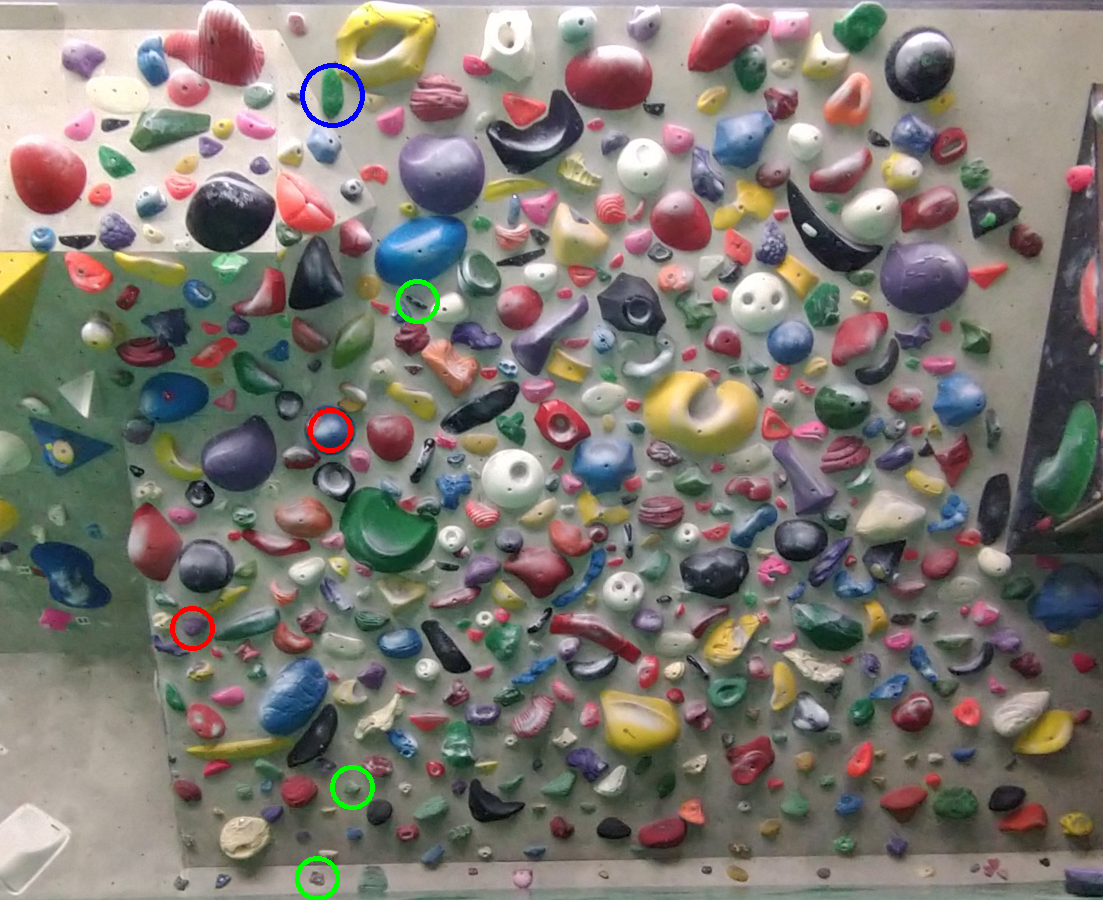
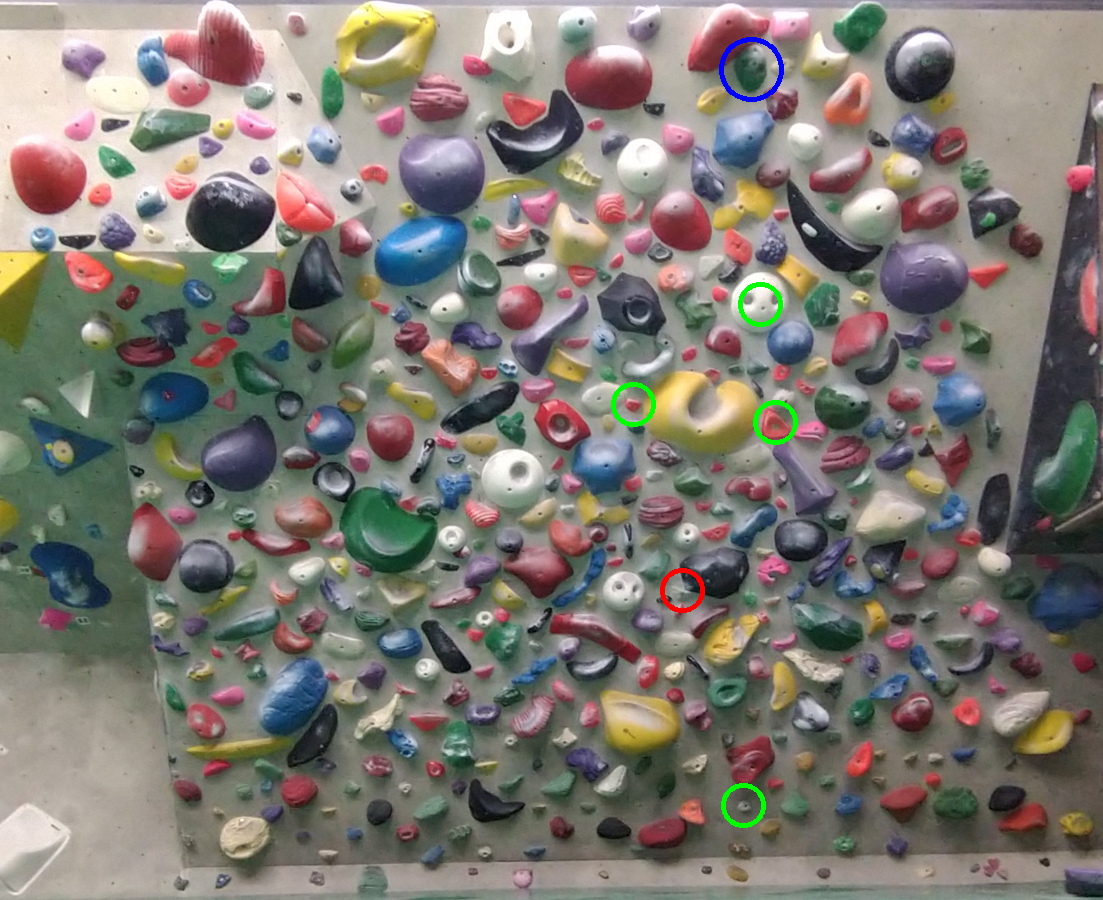
input

diff --git a/app/templates/app/avue.html b/app/templates/app/avue.html
@@ -19,10 +19,18 @@
         <p>
             <img src="{% static 'media/avue/output.png' %}">
         </p>
-        <p><font size="5">
+
+        <form action="{% url 'avue' %}" method="post">
+            {% csrf_token %}
+            {{forms}}
+            <input type='submit' value="Remake">
+        </form>
+        
+        {% comment %} <p><font size="5"> {% endcomment %}
             {% comment %} <a href="http://127.0.0.1:8000/avue">Remake</a> {% endcomment %}
-            <a href="https://avue-project-maker.onrender.com/avue">Remake</a>
-        </font></p>
+            {% comment %} <a href="https://avue-project-maker.onrender.com/avue">Remake</a> {% endcomment %}
+        {% comment %} </font></p> {% endcomment %}
+
         <p style="text-align: right">
             <a href="https://avue-project-maker.onrender.com">トップページに戻る</a>
         </font></p>

diff --git a/app/templates/app/top.html b/app/templates/app/top.html
@@ -14,8 +14,8 @@
     <p>※当サイトは利用客である投稿主が個人的に製作したものであり、avue様の運営とは一切関係がありません。</p>
     <br>
     <p><font size="5">
-      {% comment %} <a href="http://127.0.0.1:8000/avue">avue spray wall</a> {% endcomment %}
-      <a href="https://avue-project-maker.onrender.com/avue">avue spray wall</a>
+      <a href="http://127.0.0.1:8000/avue">avue spray wall</a>
+      {% comment %} <a href="https://avue-project-maker.onrender.com/avue">avue spray wall</a> {% endcomment %}
     </font></p>
     <br>
     <p><font size="5">

diff --git a/app/function.py b/app/function.py
@@ -33,12 +33,14 @@ def start_foot_list(border,input_list,name):
 
 
 #ルートセット
-def route_set(input_sf,input_list,name):
+def route_set(input_sf,input_list,name,list_forms):
     
     list_route_f = [input_list[input_sf]]
-    reach = prm.REACH(name)
+    reach = prm.REACH(name)*(list_forms[0]/170)
+    distri = 0.3*(list_forms[2]/30)
     border = prm.Border(name)
-    size = prm.size(name)
+    border_size = prm.border_size(name)
+    hold_size = prm.hold_size(name)
     list_p = []
     list_s = []
     p = 0
@@ -46,22 +48,35 @@ def route_set(input_sf,input_list,name):
     j = 0
     start_flag = 0
     goal_flag = 0
+    
     while j <= prm.MAX_NUM(name):
         j = j+1
         for i in range(prm.MAX_NUM(name)):
             h = input_list[i][2]-list_route_f[k][2]
-            if h <= 0:
-                if (start_flag != 1 or input_list[i][3] < size[0]) and \
-                    (goal_flag != 1 or input_list[i][3] >= size[1]):
+            if h < 0:
+                if (start_flag != 1 or input_list[i][3] < border_size[0]) and \
+                    (goal_flag != 1 or input_list[i][3] >= border_size[1]):
                     h = h*(-1)
                     r = ((input_list[i][1]-list_route_f[k][1])**2 + h**2)**0.5
                     if r <= reach:
                         if start_flag == 1 :
-                            ph = reach*0.3*2 - h
+                            ph = reach*distri*2 - h
                         else:
-                            ph = reach*0.3*2 - abs(h-reach*0.3)
-                        pr = reach*0.3*2 - abs(r-reach*0.3)
-                        p = p + ph*pr
+                            ph = reach*distri*2 - abs(h-reach*distri)
+                        pr = reach*distri*2 - abs(r-reach*distri)
+                        if list_forms[1] == 4:
+                            pa = 1
+                        else:
+                            if list_forms[1] == 1:
+                                base = hold_size[1]+(hold_size[2]-hold_size[1])/2
+                            elif list_forms[1] == 2:
+                                base = hold_size[2]
+                            else:
+                                base = hold_size[2]+(hold_size[0]-hold_size[2])/2
+                            
+                            pa = (hold_size[0]-hold_size[1]) - abs(input_list[i][3]-base)
+                            
+                        p = p + ph*pr*pa
                         list_temp = [i,p]
                         list_p.append(list_temp)
         rd = random.random()
@@ -71,7 +86,7 @@ def route_set(input_sf,input_list,name):
                 list_route_f.append(input_list[list_p[l][0]])
                 if list_route_f[k][2] <= border[1]:
                     if start_flag == 0:
-                        if list_route_f[k][3] < size[0]:
+                        if list_route_f[k][3] < border_size[0]:
                             list_s = [k]
                             start_flag = 1
                         else:
@@ -87,7 +102,7 @@ def route_set(input_sf,input_list,name):
                 list_p = []
                 break
         if list_route_f[k][2] <= border[2]:
-            if list_route_f[k][3] >= prm.size(name)[1]:
+            if list_route_f[k][3] >= border_size[1]:
                 route_sum = k+1
                 break
             else:
@@ -112,7 +127,8 @@ def route_set(input_sf,input_list,name):
 
 
 # 関数
-def make(name):
+def make(name, forms):
+
     list = make_list(prj_path.joinpath('csv/'+name+'/hold_list.csv'),name)
     list = pd.read_csv(prj_path.joinpath('csv/'+name+'/hold_list.csv'),header=None).values.tolist()
     
@@ -120,7 +136,7 @@ def make(name):
 
     sf = random.choice(list_start_foot)
 
-    list_route = route_set(sf,list,name)
+    list_route = route_set(sf,list,name,forms)
     
     return list_route    
 

diff --git a/app/views.py b/app/views.py
@@ -1,6 +1,7 @@
 from django.views.generic import View
 from django.shortcuts import render
 from. import function
+from .forms import CalcPlusForm
 
 
 class IndexView(View):
@@ -9,13 +10,35 @@ class IndexView(View):
     def get(self, request, *args, **kwargs):
         return render(request, "app/top.html")
 
-class Project_avue(View):    
+
+
+class Project_avue(View):
+    forms = {
+            "forms":CalcPlusForm()
+        }
+    
     def get(self, request, *args, **kwargs):
-        list_route = function.make("avue")
-        function.print_prj(list_route,"avue")    
-        return render(request, "app/avue.html")
+        params = self.forms
         
-class Project_private(View):    
+        list_param = [170,2,30]
+               
+        list_route = function.make("avue", list_param)
+        function.print_prj(list_route,"avue")    
+        return render(request, "app/avue.html", params)
+       
+    def post(self, request, *args, **kwargs):
+        params = self.forms
+        params['forms'] = CalcPlusForm(request.POST)
+        
+        list_param = [int(request.POST["val1"]), int(request.POST["val2"]), int(request.POST["val3"])]
+        
+        list_route = function.make("avue", list_param)
+        function.print_prj(list_route,"avue")    
+        return render(request, "app/avue.html", params)
+        
+
+
+class Project_private(View):
     def get(self, request, *args, **kwargs):
         list_route = function.make("private")
         function.print_prj(list_route,"private")    

diff --git a/app/param.py b/app/param.py
@@ -10,11 +10,26 @@ def MAX_NUM(name):
     return max
 
 #スタートゴールサイズ
-def size(name):
+def border_size(name):
     list_csv = pd.read_csv(prj_path.joinpath('csv/'+name+'/hold_size.csv'),header=None).values.tolist()
     list = [list_csv[0][3],list_csv[1][3]]
     return list
     
+
+def hold_size(name):
+    list_csv = pd.read_csv(prj_path.joinpath('csv/'+name+'/hold_list.csv'),header=None).values.tolist()
+    
+    max = list_csv[0][3]
+    min = list_csv[0][3]
+    sum = 0
+    for i in range(MAX_NUM(name)):
+        if max < list_csv[i][3]:
+            max = list_csv[i][3]
+        if min > list_csv[i][3]:
+            min = list_csv[i][3]
+        sum = sum + list_csv[i][3]
+    ave = int(sum/(MAX_NUM(name)))
+    return max, min, ave
 
 #ゴール高さ下限、スタート足高さ上限、スタート高さ下限
 def Border(name):

diff --git a/app/forms.py b/app/forms.py
@@ -1,0 +1,37 @@
+from django import forms
+
+Reach = (
+    (100,"100cm"),
+    (110,"110cm"),
+    (120,"120cm"),
+    (130,"130cm"),
+    (140,"140cm"),
+    (150,"150cm"),
+    (160,"160cm"),
+    (170,"170cm"),
+    (180,"180cm"),
+    (190,"190cm"),
+    (200,"200cm")
+)
+
+Size = (
+    (1,"Small"),
+    (2,"Avarage"),
+    (3,"Large"),
+    (4,"Ignore")
+)
+
+Level = (
+    (15,"Easy"),
+    (30,"Normal"),
+    (45,"Hard"),
+    (60,"Harder"),
+    (75,"Hardest"),
+    (100,"Hell")
+)
+
+class CalcPlusForm(forms.Form):
+    val1 = forms.ChoiceField(label="Your Reach", choices=Reach, initial=170)
+    val2 = forms.ChoiceField(label="Size of Holds",choices=Size, initial=2)
+    val3 = forms.ChoiceField(label="Level", choices=Level, initial=30)
+    
